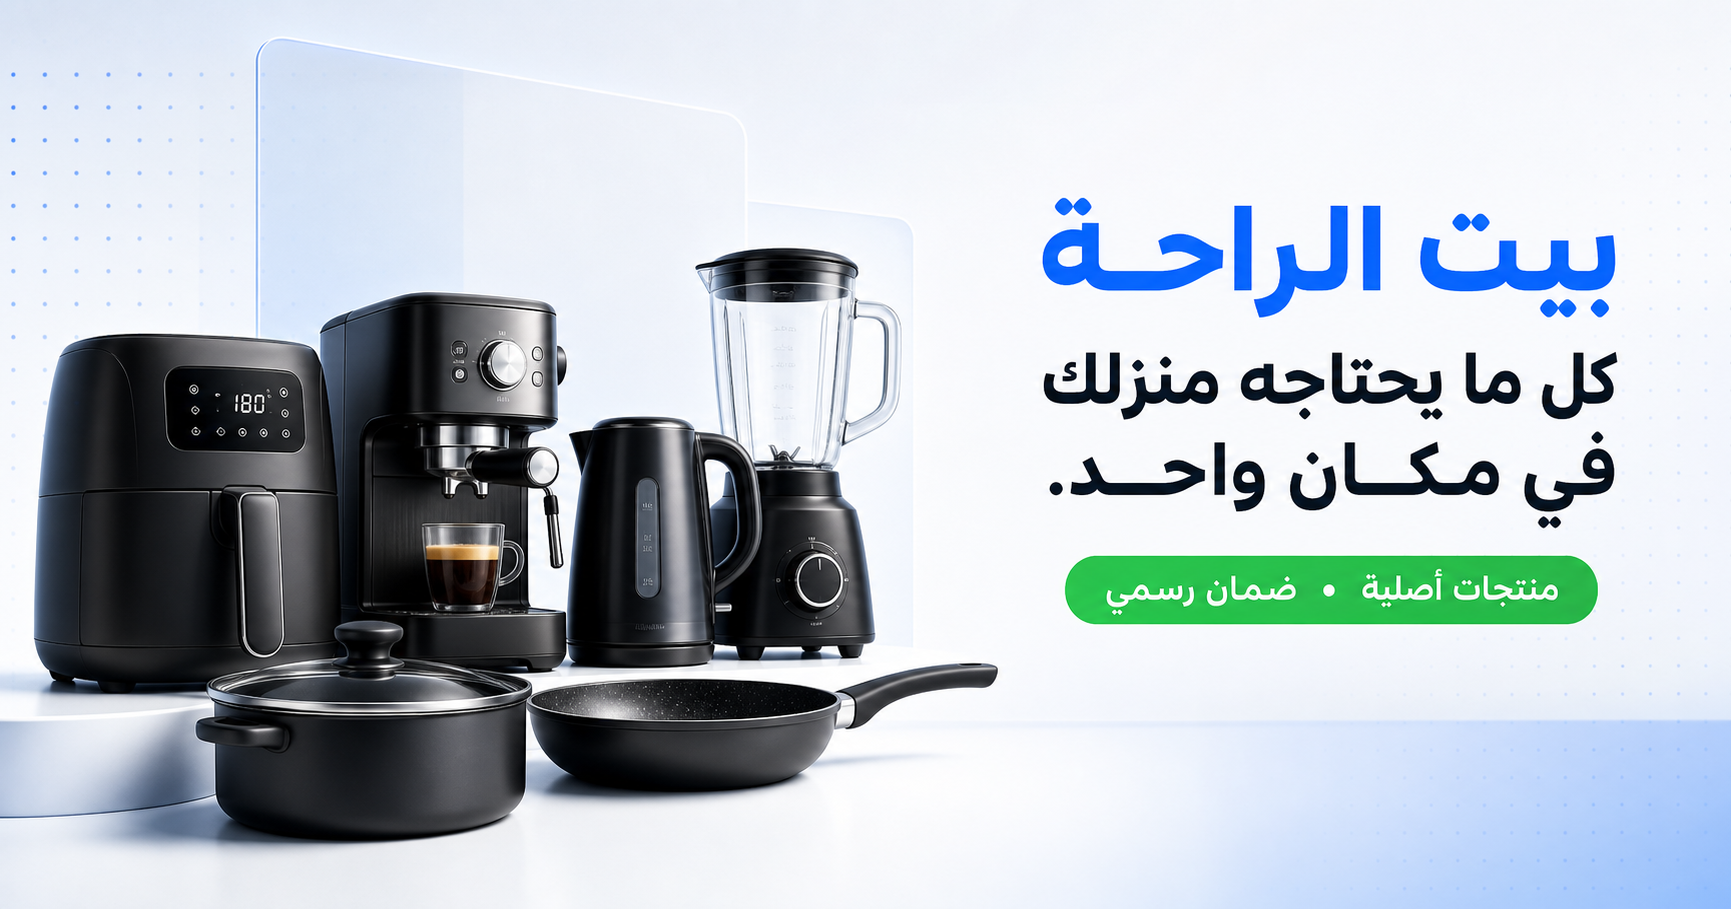
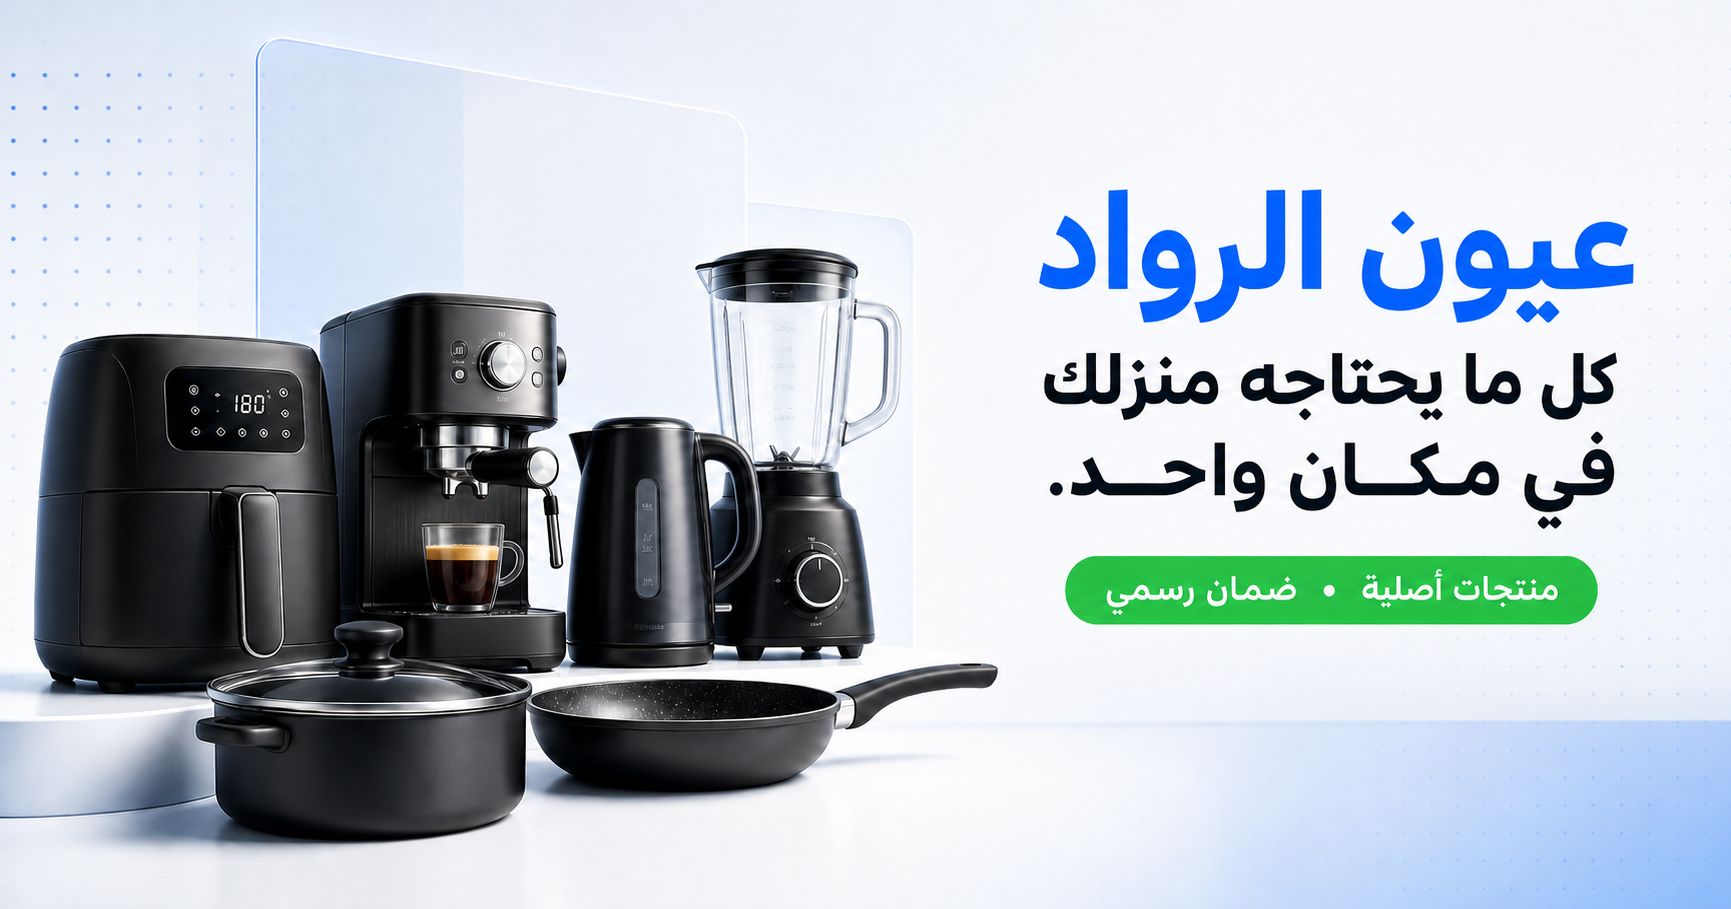
Rename storefront to Oyoon Al Rowad

diff --git a/src/components/site/Footer.tsx b/src/components/site/Footer.tsx
@@ -5,7 +5,7 @@ import { Stagger, itemVariants } from "./Reveal";
 
 const columns = [
   { title: "التسوق", links: ["أجهزة المطبخ", "أجهزة المنزل", "أواني الطهي", "الإلكترونيات", "العروض"] },
-  { title: "بيت الراحة", links: ["من نحن", "علاماتنا", "الفروع", "الوظائف", "تواصل معنا"] },
+  { title: "عيون الرواد", links: ["من نحن", "علاماتنا", "الفروع", "الوظائف", "تواصل معنا"] },
   { title: "خدمة العملاء", links: ["الشحن والتوصيل", "الاستبدال والإرجاع", "الضمان", "طرق الدفع", "الأسئلة الشائعة"] },
 ];
 
@@ -15,14 +15,14 @@ export function Footer() {
       <Stagger gap={0.08} className="mx-auto max-w-7xl px-5 py-16 sm:px-8 sm:py-20">
         <div className="grid gap-12 lg:grid-cols-[1.45fr_repeat(3,1fr)]">
           <motion.div variants={itemVariants}>
-            <a href="#hero" className="inline-flex items-center gap-3" aria-label="بيت الراحة - الرئيسية">
+            <a href="#hero" className="inline-flex items-center gap-3" aria-label="عيون الرواد - الرئيسية">
               <span className="grid h-12 w-12 place-items-center overflow-hidden rounded-2xl bg-primary shadow-glow"><img src={logo.url} alt="" loading="lazy" width={48} height={48} className="h-full w-full object-contain" /></span>
-              <span className="font-display text-xl font-black">بيت الراحة</span>
+              <span className="font-display text-xl font-black">عيون الرواد</span>
             </a>
             <p className="mt-5 max-w-sm text-sm leading-7 text-muted-foreground">وجهتك الموثوقة للأجهزة المنزلية وأدوات المطبخ الأصلية—جودة تدوم، وخدمة تجعل التسوق أسهل.</p>
             <ul className="mt-6 space-y-3 text-sm text-muted-foreground">
               <li><a href="tel:+966500000000" className="inline-flex items-center gap-3 transition-colors hover:text-primary"><Phone className="h-4 w-4" /> +٩٦٦ ٥٠ ٠٠٠ ٠٠٠٠</a></li>
-              <li><a href="mailto:info@baitalraha.com" className="inline-flex items-center gap-3 transition-colors hover:text-primary"><Mail className="h-4 w-4" /> info@baitalraha.com</a></li>
+              <li><a href="mailto:info@oyoonalrowad.com" className="inline-flex items-center gap-3 transition-colors hover:text-primary"><Mail className="h-4 w-4" /> info@oyoonalrowad.com</a></li>
               <li className="flex items-center gap-3"><MapPin className="h-4 w-4 shrink-0" /> الرياض، المملكة العربية السعودية</li>
             </ul>
           </motion.div>
@@ -38,7 +38,7 @@ export function Footer() {
         </div>
 
         <motion.div variants={itemVariants} className="mt-14 flex flex-col-reverse items-center justify-between gap-6 border-t border-border pt-7 sm:flex-row">
-          <p className="text-center text-xs text-muted-foreground sm:text-right">© ٢٠٢٦ بيت الراحة. جميع الحقوق محفوظة.</p>
+          <p className="text-center text-xs text-muted-foreground sm:text-right">© ٢٠٢٦ عيون الرواد. جميع الحقوق محفوظة.</p>
           <div className="flex items-center gap-2">
             {[Instagram, Facebook, Linkedin].map((Icon, index) => (
               <motion.a key={index} href="#hero" aria-label={["إنستغرام", "فيسبوك", "لينكدإن"][index]} whileHover={{ y: -3, scale: 1.05 }} className="grid h-10 w-10 place-items-center rounded-xl border border-border text-muted-foreground transition-colors hover:border-primary hover:bg-primary hover:text-primary-foreground"><Icon className="h-[18px] w-[18px]" /></motion.a>

diff --git a/src/components/site/Testimonials.tsx b/src/components/site/Testimonials.tsx
@@ -4,7 +4,7 @@ import { Reveal, Stagger, itemVariants } from "./Reveal";
 
 const reviews = [
   { name: "سارة العتيبي", role: "عميلة منذ ٢٠٢٣", initials: "س ع", color: "bg-blue-100 text-primary", review: "وصلت القلاية في اليوم التالي والتغليف ممتاز. المنتج أصلي وخدمة العملاء تابعت معي حتى بعد الاستلام." },
-  { name: "محمد الشمري", role: "أكثر من ٧ طلبات", initials: "م ش", color: "bg-emerald-100 text-emerald-700", review: "الأسعار واضحة والتجربة سلسة جداً. جهزت أغلب أجهزة مطبخي من بيت الراحة ولم أواجه أي مشكلة." },
+  { name: "محمد الشمري", role: "أكثر من ٧ طلبات", initials: "م ش", color: "bg-emerald-100 text-emerald-700", review: "الأسعار واضحة والتجربة سلسة جداً. جهزت أغلب أجهزة مطبخي من عيون الرواد ولم أواجه أي مشكلة." },
   { name: "نورة القحطاني", role: "عميلة موثّقة", initials: "ن ق", color: "bg-violet-100 text-violet-700", review: "أكثر ما أعجبني هو سرعة الرد والضمان الرسمي. التفاصيل في الموقع مطابقة تماماً للمنتج الذي وصلني." },
 ];
 

diff --git a/src/components/site/Faq.tsx b/src/components/site/Faq.tsx
@@ -18,7 +18,7 @@ export function Faq() {
           <span className="eyebrow"><CircleHelp className="h-4 w-4" /> الأسئلة الشائعة</span>
           <h2 className="font-display mt-4 text-[clamp(2rem,4.3vw,3.5rem)] font-black leading-tight tracking-tight">كل ما تحتاج معرفته قبل الطلب</h2>
           <p className="mt-5 max-w-md leading-8 text-muted-foreground">لم تجد إجابتك؟ فريقنا جاهز لمساعدتك والإجابة عن أي استفسار.</p>
-          <a href="mailto:info@baitalraha.com" className="mt-8 inline-flex items-center gap-2 rounded-2xl border border-primary/15 bg-blue-soft/55 px-5 py-3 text-sm font-bold text-primary transition-colors hover:bg-blue-soft"><MessageCircle className="h-4 w-4" /> تواصل مع الدعم</a>
+          <a href="mailto:info@oyoonalrowad.com" className="mt-8 inline-flex items-center gap-2 rounded-2xl border border-primary/15 bg-blue-soft/55 px-5 py-3 text-sm font-bold text-primary transition-colors hover:bg-blue-soft"><MessageCircle className="h-4 w-4" /> تواصل مع الدعم</a>
         </Reveal>
 
         <Reveal delay={0.1}>

diff --git a/src/components/site/Navbar.tsx b/src/components/site/Navbar.tsx
@@ -27,11 +27,11 @@ export function Navbar() {
       transition={{ duration: 0.75, ease: [0.22, 0.61, 0.36, 1] }}
     >
       <nav aria-label="التنقل الرئيسي" className="mx-auto flex max-w-7xl items-center gap-5 px-5 sm:px-8">
-        <a href="#hero" className="flex min-w-0 shrink-0 items-center gap-3" aria-label="بيت الراحة - الرئيسية">
+        <a href="#hero" className="flex min-w-0 shrink-0 items-center gap-3" aria-label="عيون الرواد - الرئيسية">
           <span className="grid h-11 w-11 place-items-center overflow-hidden rounded-2xl bg-primary shadow-glow">
             <img src={logo.url} alt="" width={44} height={44} className="h-full w-full object-contain" />
           </span>
-          <span className="font-display truncate text-lg font-extrabold tracking-tight sm:text-xl">بيت الراحة</span>
+          <span className="font-display truncate text-lg font-extrabold tracking-tight sm:text-xl">عيون الرواد</span>
         </a>
 
         <ul className="mx-auto hidden items-center gap-7 text-sm font-semibold lg:flex">

diff --git a/src/routes/__root.tsx b/src/routes/__root.tsx
@@ -77,12 +77,12 @@ export const Route = createRootRouteWithContext<{ queryClient: QueryClient }>()(
     meta: [
       { charSet: "utf-8" },
       { name: "viewport", content: "width=device-width, initial-scale=1" },
-      { title: "بيت الراحة | أجهزة منزلية أصلية لحياة أسهل" },
+      { title: "عيون الرواد | أجهزة منزلية أصلية لحياة أسهل" },
       {
         name: "description",
-        content: "أجهزة منزلية وأدوات مطبخ أصلية بجودة تدوم، مع ضمان رسمي وشحن سريع من بيت الراحة.",
+        content: "أجهزة منزلية وأدوات مطبخ أصلية بجودة تدوم، مع ضمان رسمي وشحن سريع من عيون الرواد.",
       },
-      { name: "author", content: "بيت الراحة" },
+      { name: "author", content: "عيون الرواد" },
       { property: "og:type", content: "website" },
       { name: "twitter:card", content: "summary_large_image" },
     ],

diff --git a/src/routes/index.tsx b/src/routes/index.tsx
@@ -15,8 +15,8 @@ import { Faq } from "@/components/site/Faq";
 import { Newsletter } from "@/components/site/Newsletter";
 import { Footer } from "@/components/site/Footer";
 
-const TITLE = "بيت الراحة | أجهزة منزلية أصلية لحياة أسهل";
-const DESC = "تسوّق الأجهزة المنزلية وأدوات المطبخ والأواني الأصلية من بيت الراحة. أسعار تنافسية، ضمان رسمي، وشحن سريع إلى باب منزلك.";
+const TITLE = "عيون الرواد | أجهزة منزلية أصلية لحياة أسهل";
+const DESC = "تسوّق الأجهزة المنزلية وأدوات المطبخ والأواني الأصلية من عيون الرواد. أسعار تنافسية، ضمان رسمي، وشحن سريع إلى باب منزلك.";
 
 export const Route = createFileRoute("/")({
   head: () => ({

diff --git a/src/components/site/Features.tsx b/src/components/site/Features.tsx
@@ -15,7 +15,7 @@ export function Features() {
     <section id="why-us" className="relative py-24 sm:py-32">
       <div className="mx-auto max-w-7xl px-5 sm:px-8">
         <Reveal className="mx-auto max-w-2xl text-center">
-          <span className="eyebrow justify-center">لماذا بيت الراحة؟</span>
+          <span className="eyebrow justify-center">لماذا عيون الرواد؟</span>
           <h2 className="font-display mt-4 text-[clamp(2rem,4.5vw,3.5rem)] font-black tracking-tight">تجربة شراء يمكنك الوثوق بها</h2>
           <p className="mt-4 leading-7 text-muted-foreground">من أول نقرة وحتى وصول طلبك، نهتم بكل تفصيل.</p>
         </Reveal>

diff --git a/src/components/site/Statistics.tsx b/src/components/site/Statistics.tsx
@@ -10,7 +10,7 @@ const stats = [
 
 export function Statistics() {
   return (
-    <section aria-label="أرقام بيت الراحة" className="px-5 pb-12 sm:px-8 sm:pb-16">
+    <section aria-label="أرقام عيون الرواد" className="px-5 pb-12 sm:px-8 sm:pb-16">
       <div className="dark relative mx-auto max-w-7xl overflow-hidden rounded-[2rem] bg-background px-6 py-12 text-foreground shadow-lift sm:px-12 sm:py-16">
         <div className="pointer-events-none absolute inset-0 dot-grid opacity-30" />
         <div className="pointer-events-none absolute -right-24 -top-28 h-72 w-72 rounded-full bg-primary/30 blur-[100px]" />
